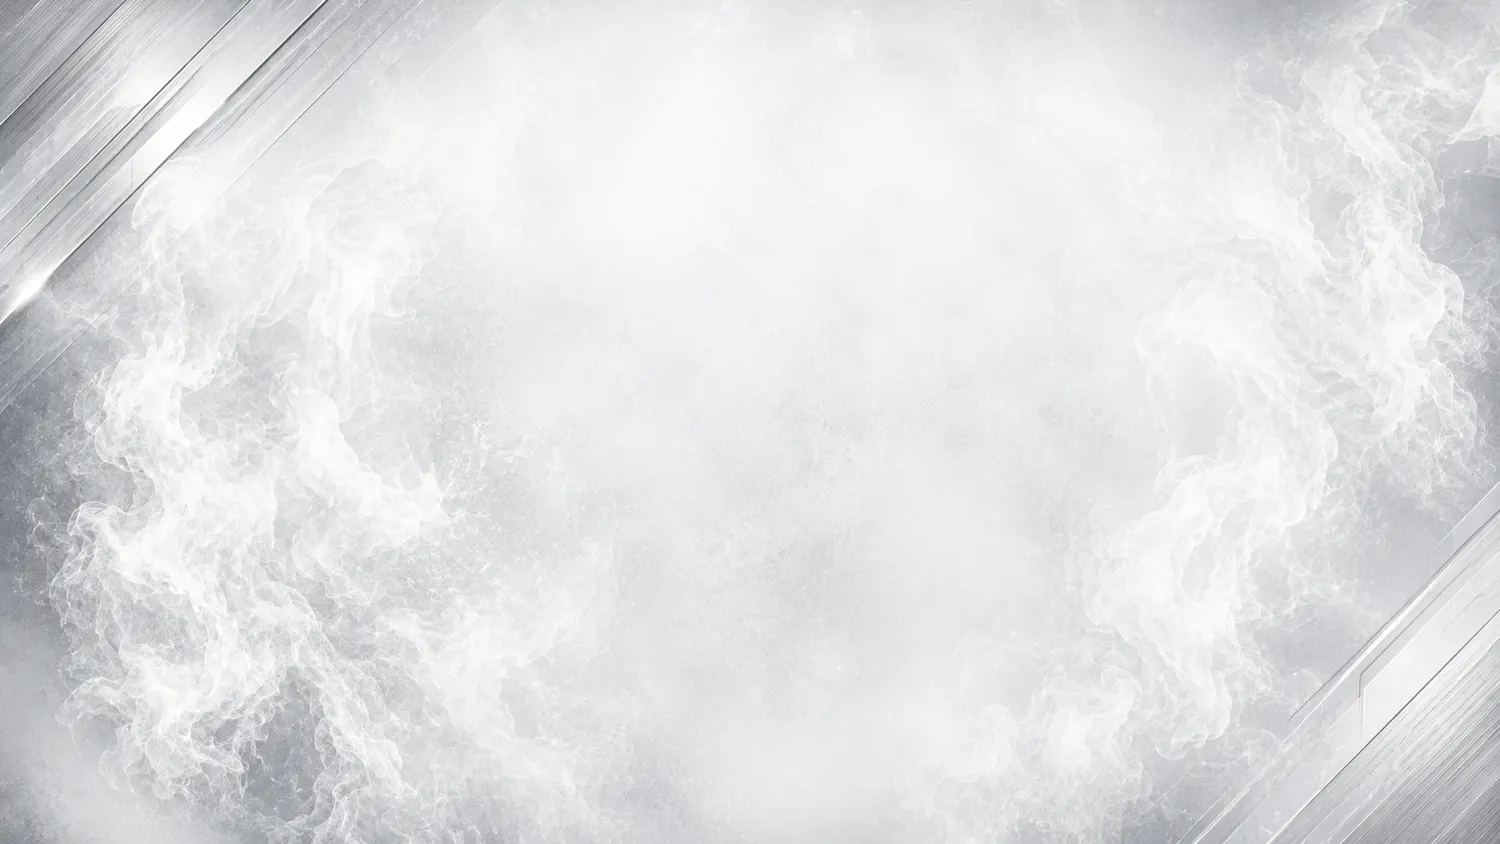
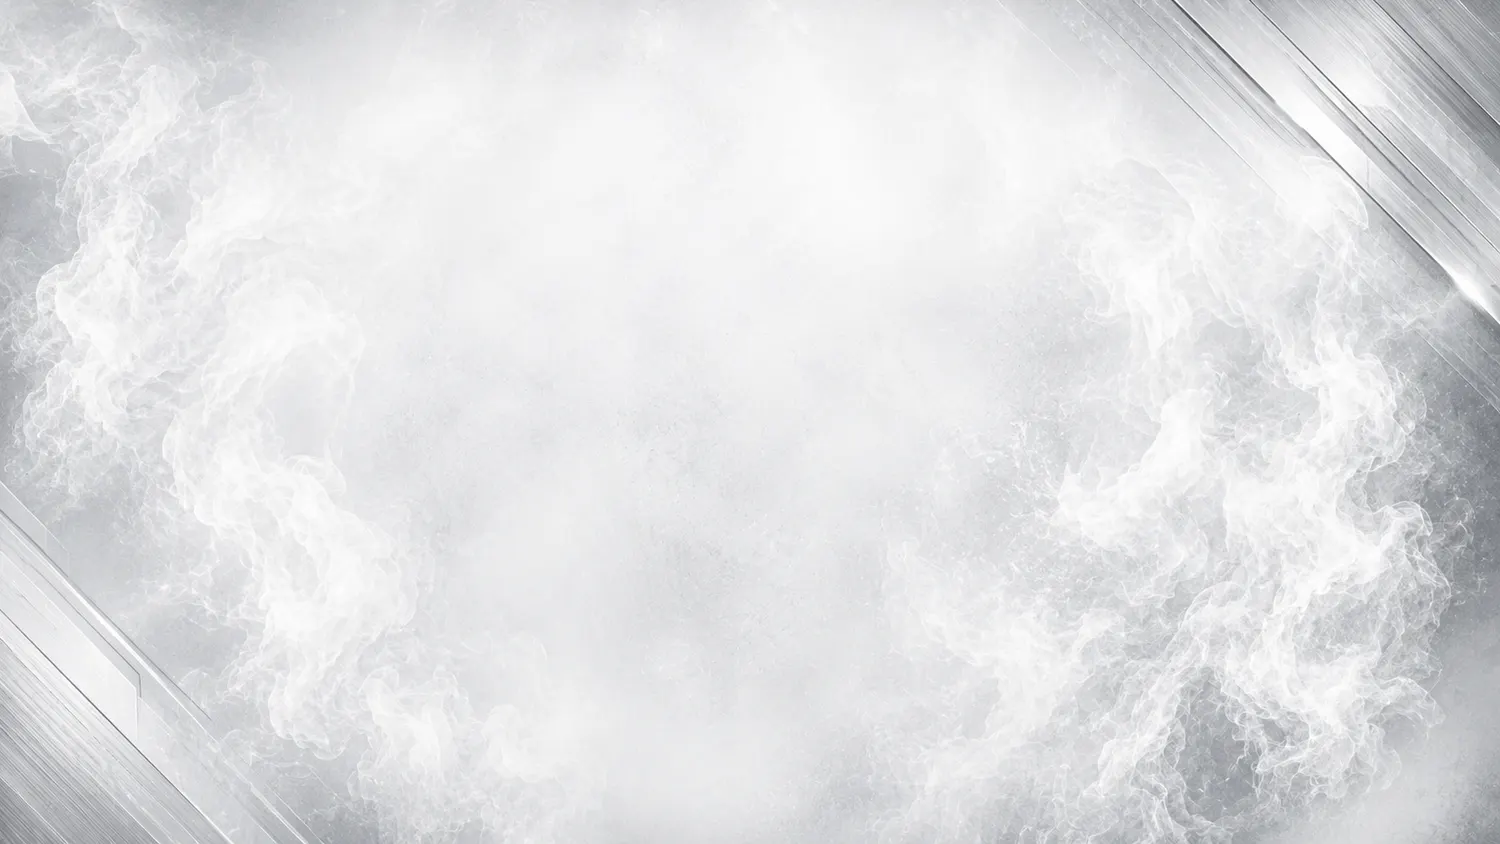
Textura tambien en las preliminares, y fondo claro espejeado
- Preliminares y filas compactas: esas filas no son dos paneles sino un solo
  elemento partido por un degradado horizontal, asi que las texturas van como
  dos capas de media anchura (oscura a la izquierda, clara a la derecha) con el
  degradado debajo por si alguna no alcanza a cubrir. Se escalan por anchura
  conservando la proporcion, para que el humo no salga aplastado en filas bajas.
  Aplica a las tres: preliminar con foto, preliminar compacta y cartelera
  compacta.
- fondo-blanco.webp ahora va espejeado. Sin eso, sus lineas diagonales caian
  junto a la costura central, pegadas a las del lado oscuro; espejeado quedan en
  la orilla exterior y las dos mitades se leen simetricas.

diff --git a/index.html b/index.html
@@ -358,7 +358,7 @@
     </sc-for>
     <div class="prelim2" style="margin-top:10px;">
       <sc-for list="{{ carteleraSinFoto }}" as="fight" hint-placeholder-count="2">
-        <div style="overflow:hidden;background:linear-gradient(90deg,#141419 0%,#1b1b22 44%,#c7cad0 56%,#e8eaee 100%);border:1px solid rgba(255,255,255,.06);min-height:64px;display:flex;align-items:center;gap:8px;padding:12px clamp(14px,2vw,22px);cursor:pointer;transition:border-color .2s;" style-hover="border-color:rgba(255,0,51,.22);">
+        <div style="overflow:hidden;background:url(uploads/fondo-negro.webp) left center / 50% auto no-repeat,url(uploads/fondo-blanco.webp) right center / 50% auto no-repeat,linear-gradient(90deg,#141419 0%,#1b1b22 44%,#c7cad0 56%,#e8eaee 100%);border:1px solid rgba(255,255,255,.06);min-height:64px;display:flex;align-items:center;gap:8px;padding:12px clamp(14px,2vw,22px);cursor:pointer;transition:border-color .2s;" style-hover="border-color:rgba(255,0,51,.22);">
           <div style="flex:1;min-width:0;">
             <div style="font-family:'Bebas Neue',sans-serif;font-size:clamp(14px,1.5vw,19px);color:#fff;letter-spacing:.04em;line-height:1;white-space:nowrap;overflow:hidden;text-overflow:ellipsis;">{{ fight.r1 }}</div>
             <div style="font-size:10px;color:#FF0033;letter-spacing:.1em;margin-top:3px;font-weight:700;">{{ fight.r1rec }}</div>
@@ -380,7 +380,7 @@
   <div style="padding:0 clamp(16px,4vw,40px) 68px;max-width:1200px;margin:0 auto;">
     <div style="display:flex;flex-direction:column;gap:10px;">
       <sc-for list="{{ prelimsFoto }}" as="fight" hint-placeholder-count="2">
-        <div style="position:relative;overflow:hidden;background:linear-gradient(90deg,#141419 0%,#1b1b22 44%,#c7cad0 56%,#e8eaee 100%);border:1px solid rgba(255,255,255,.06);min-height:clamp(92px,13.5vw,138px);display:flex;align-items:center;gap:clamp(4px,1.2vw,12px);padding:clamp(8px,1.4vw,12px) clamp(14px,3vw,40px);cursor:pointer;transition:border-color .2s;" style-hover="border-color:rgba(255,0,51,.22);">
+        <div style="position:relative;overflow:hidden;background:url(uploads/fondo-negro.webp) left center / 50% auto no-repeat,url(uploads/fondo-blanco.webp) right center / 50% auto no-repeat,linear-gradient(90deg,#141419 0%,#1b1b22 44%,#c7cad0 56%,#e8eaee 100%);border:1px solid rgba(255,255,255,.06);min-height:clamp(92px,13.5vw,138px);display:flex;align-items:center;gap:clamp(4px,1.2vw,12px);padding:clamp(8px,1.4vw,12px) clamp(14px,3vw,40px);cursor:pointer;transition:border-color .2s;" style-hover="border-color:rgba(255,0,51,.22);">
           <img src="{{ fight.r1img }}" alt="" style="display:{{ fight.r1disp }};align-self:flex-end;height:clamp(86px,12.5vw,138px);width:auto;max-width:16%;object-fit:contain;object-position:bottom center;flex-shrink:0;margin-bottom:calc(-1 * clamp(8px,1.4vw,12px));">
           <div style="flex:1;min-width:0;padding-left:clamp(6px,1.5vw,18px);z-index:2;">
             <div style="font-family:'Bebas Neue',sans-serif;font-size:clamp(15px,2.5vw,25px);color:#fff;letter-spacing:.04em;line-height:1;white-space:nowrap;overflow:hidden;text-overflow:ellipsis;">{{ fight.r1 }}</div>
@@ -399,7 +399,7 @@
     </div>
     <div class="prelim2" style="margin-top:10px;">
       <sc-for list="{{ prelimsSinFoto }}" as="fight" hint-placeholder-count="4">
-        <div style="overflow:hidden;background:linear-gradient(90deg,#141419 0%,#1b1b22 44%,#c7cad0 56%,#e8eaee 100%);border:1px solid rgba(255,255,255,.06);min-height:64px;display:flex;align-items:center;gap:8px;padding:12px clamp(14px,2vw,22px);cursor:pointer;transition:border-color .2s;" style-hover="border-color:rgba(255,0,51,.22);">
+        <div style="overflow:hidden;background:url(uploads/fondo-negro.webp) left center / 50% auto no-repeat,url(uploads/fondo-blanco.webp) right center / 50% auto no-repeat,linear-gradient(90deg,#141419 0%,#1b1b22 44%,#c7cad0 56%,#e8eaee 100%);border:1px solid rgba(255,255,255,.06);min-height:64px;display:flex;align-items:center;gap:8px;padding:12px clamp(14px,2vw,22px);cursor:pointer;transition:border-color .2s;" style-hover="border-color:rgba(255,0,51,.22);">
           <div style="flex:1;min-width:0;">
             <div style="font-family:'Bebas Neue',sans-serif;font-size:clamp(14px,1.5vw,19px);color:#fff;letter-spacing:.04em;line-height:1;white-space:nowrap;overflow:hidden;text-overflow:ellipsis;">{{ fight.r1 }}</div>
             <div style="font-size:10px;color:#FF0033;letter-spacing:.1em;margin-top:3px;font-weight:700;">{{ fight.r1rec }}</div>
